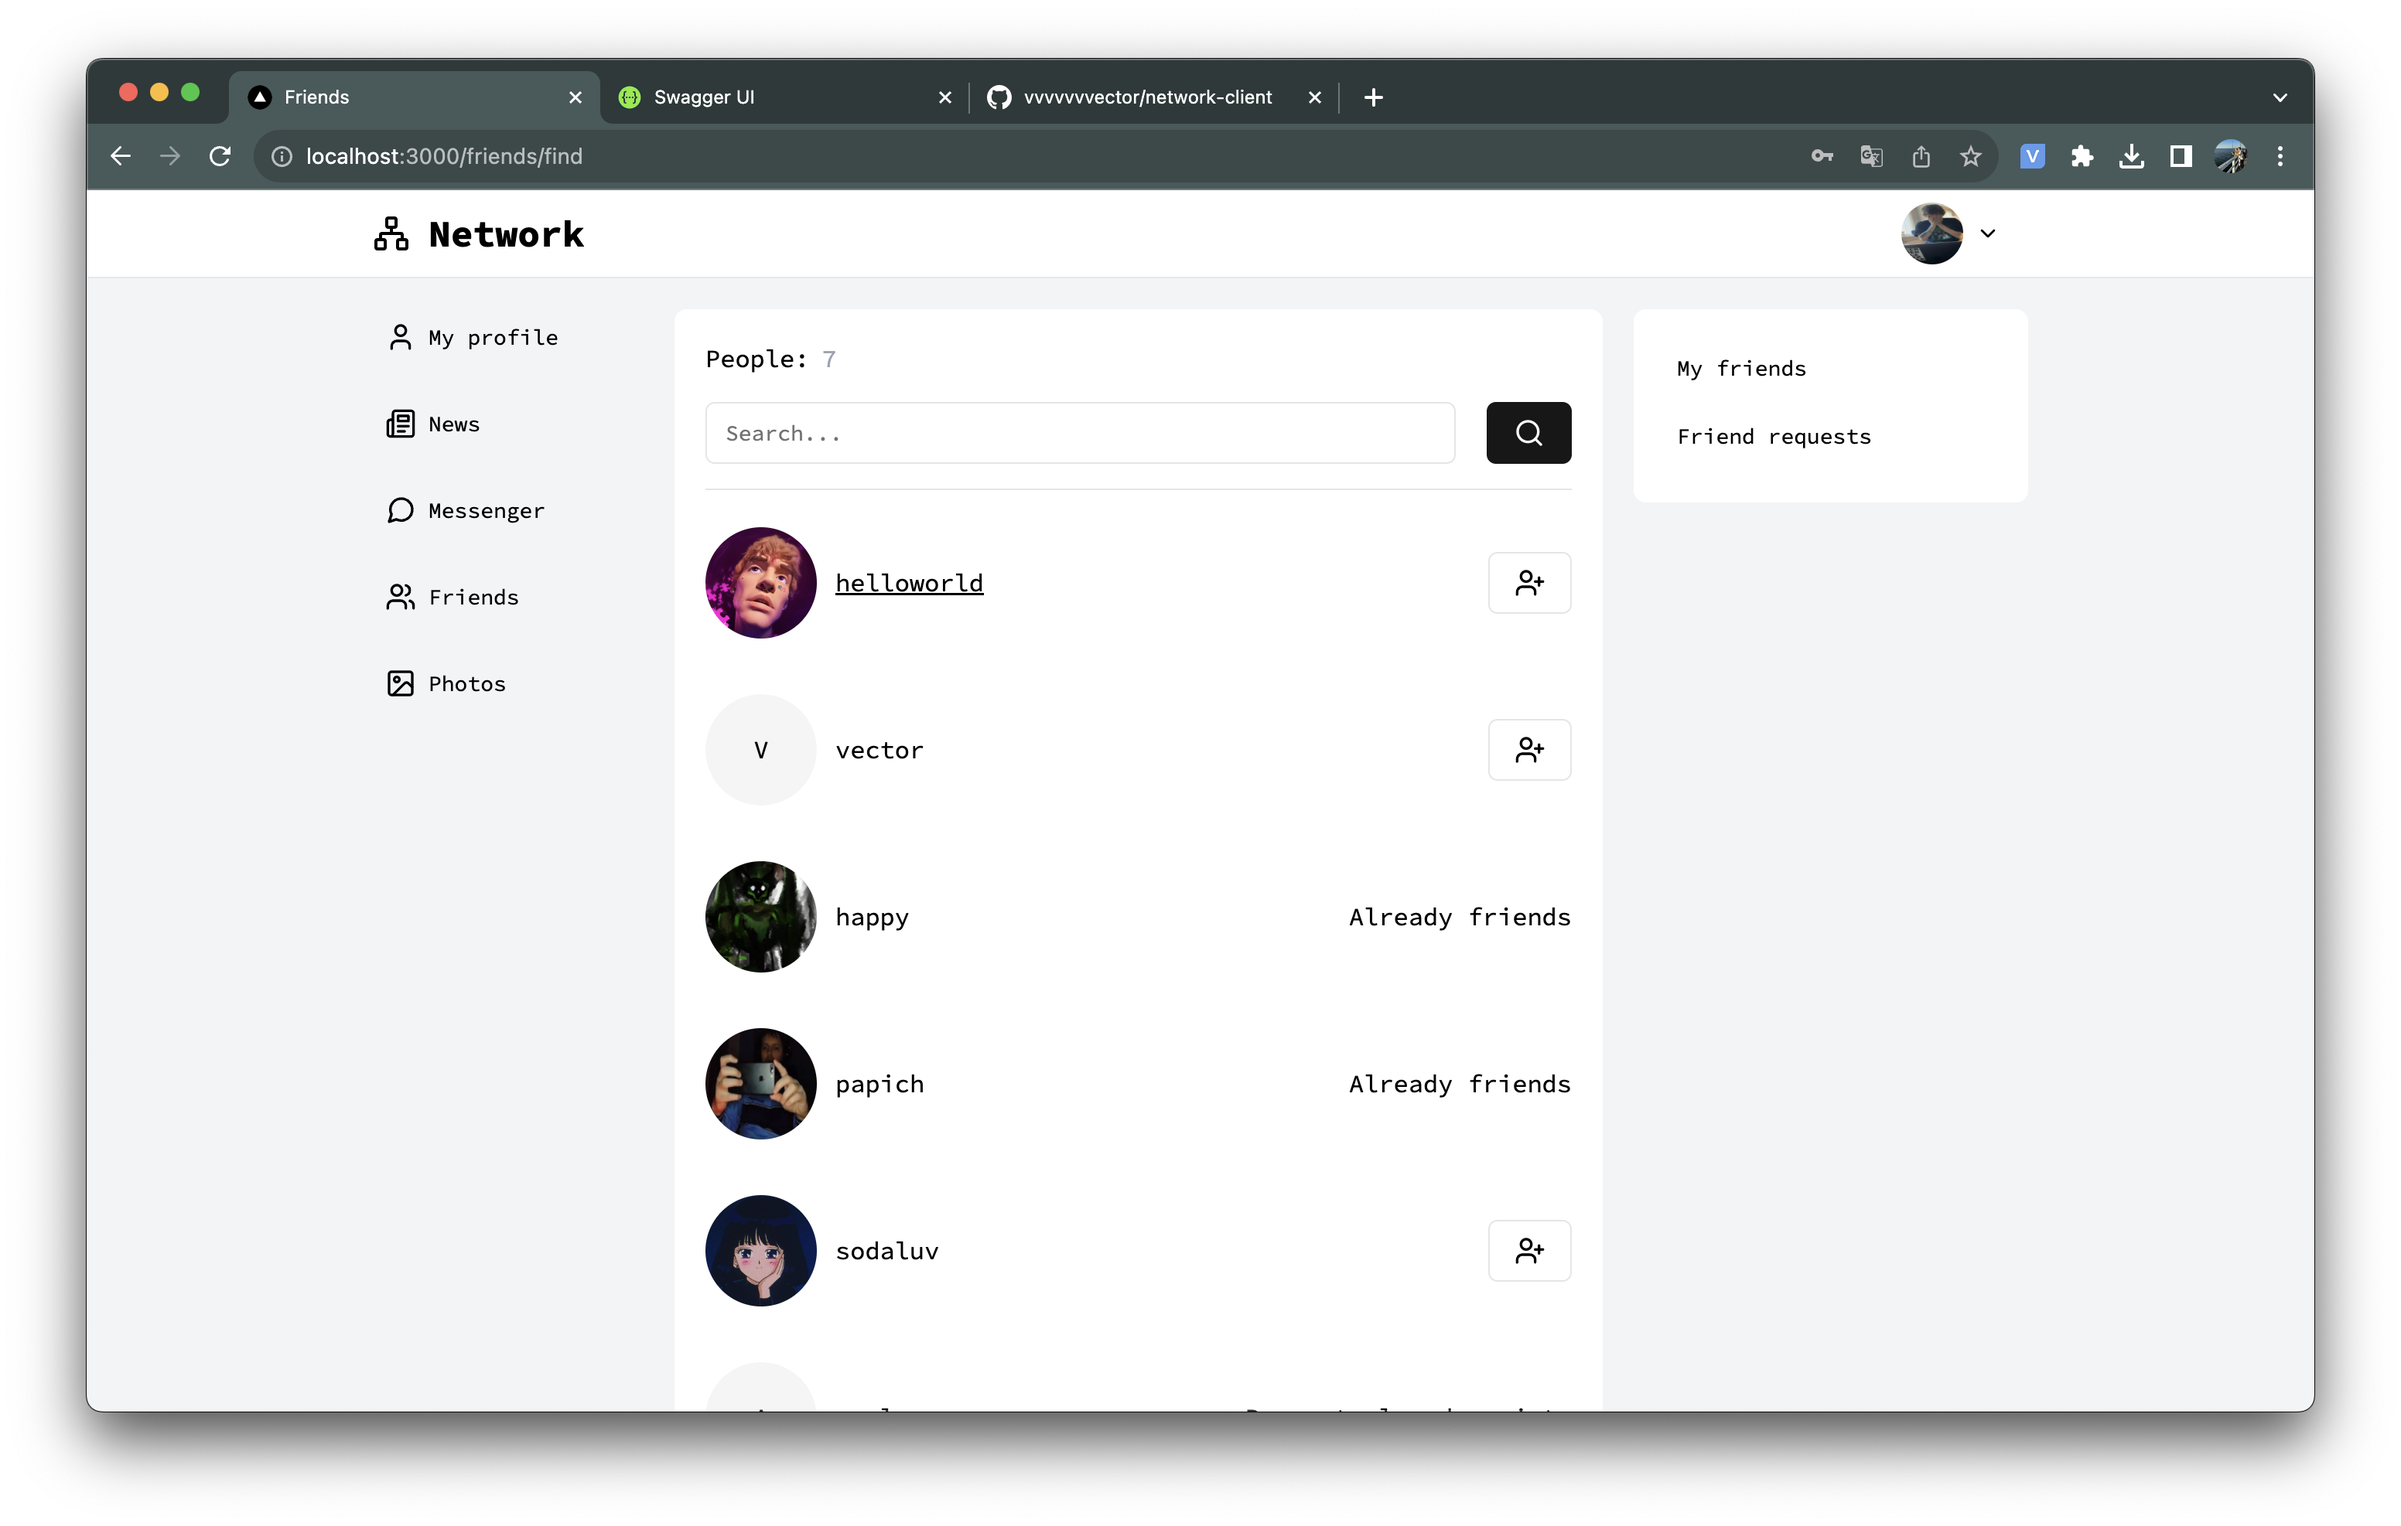
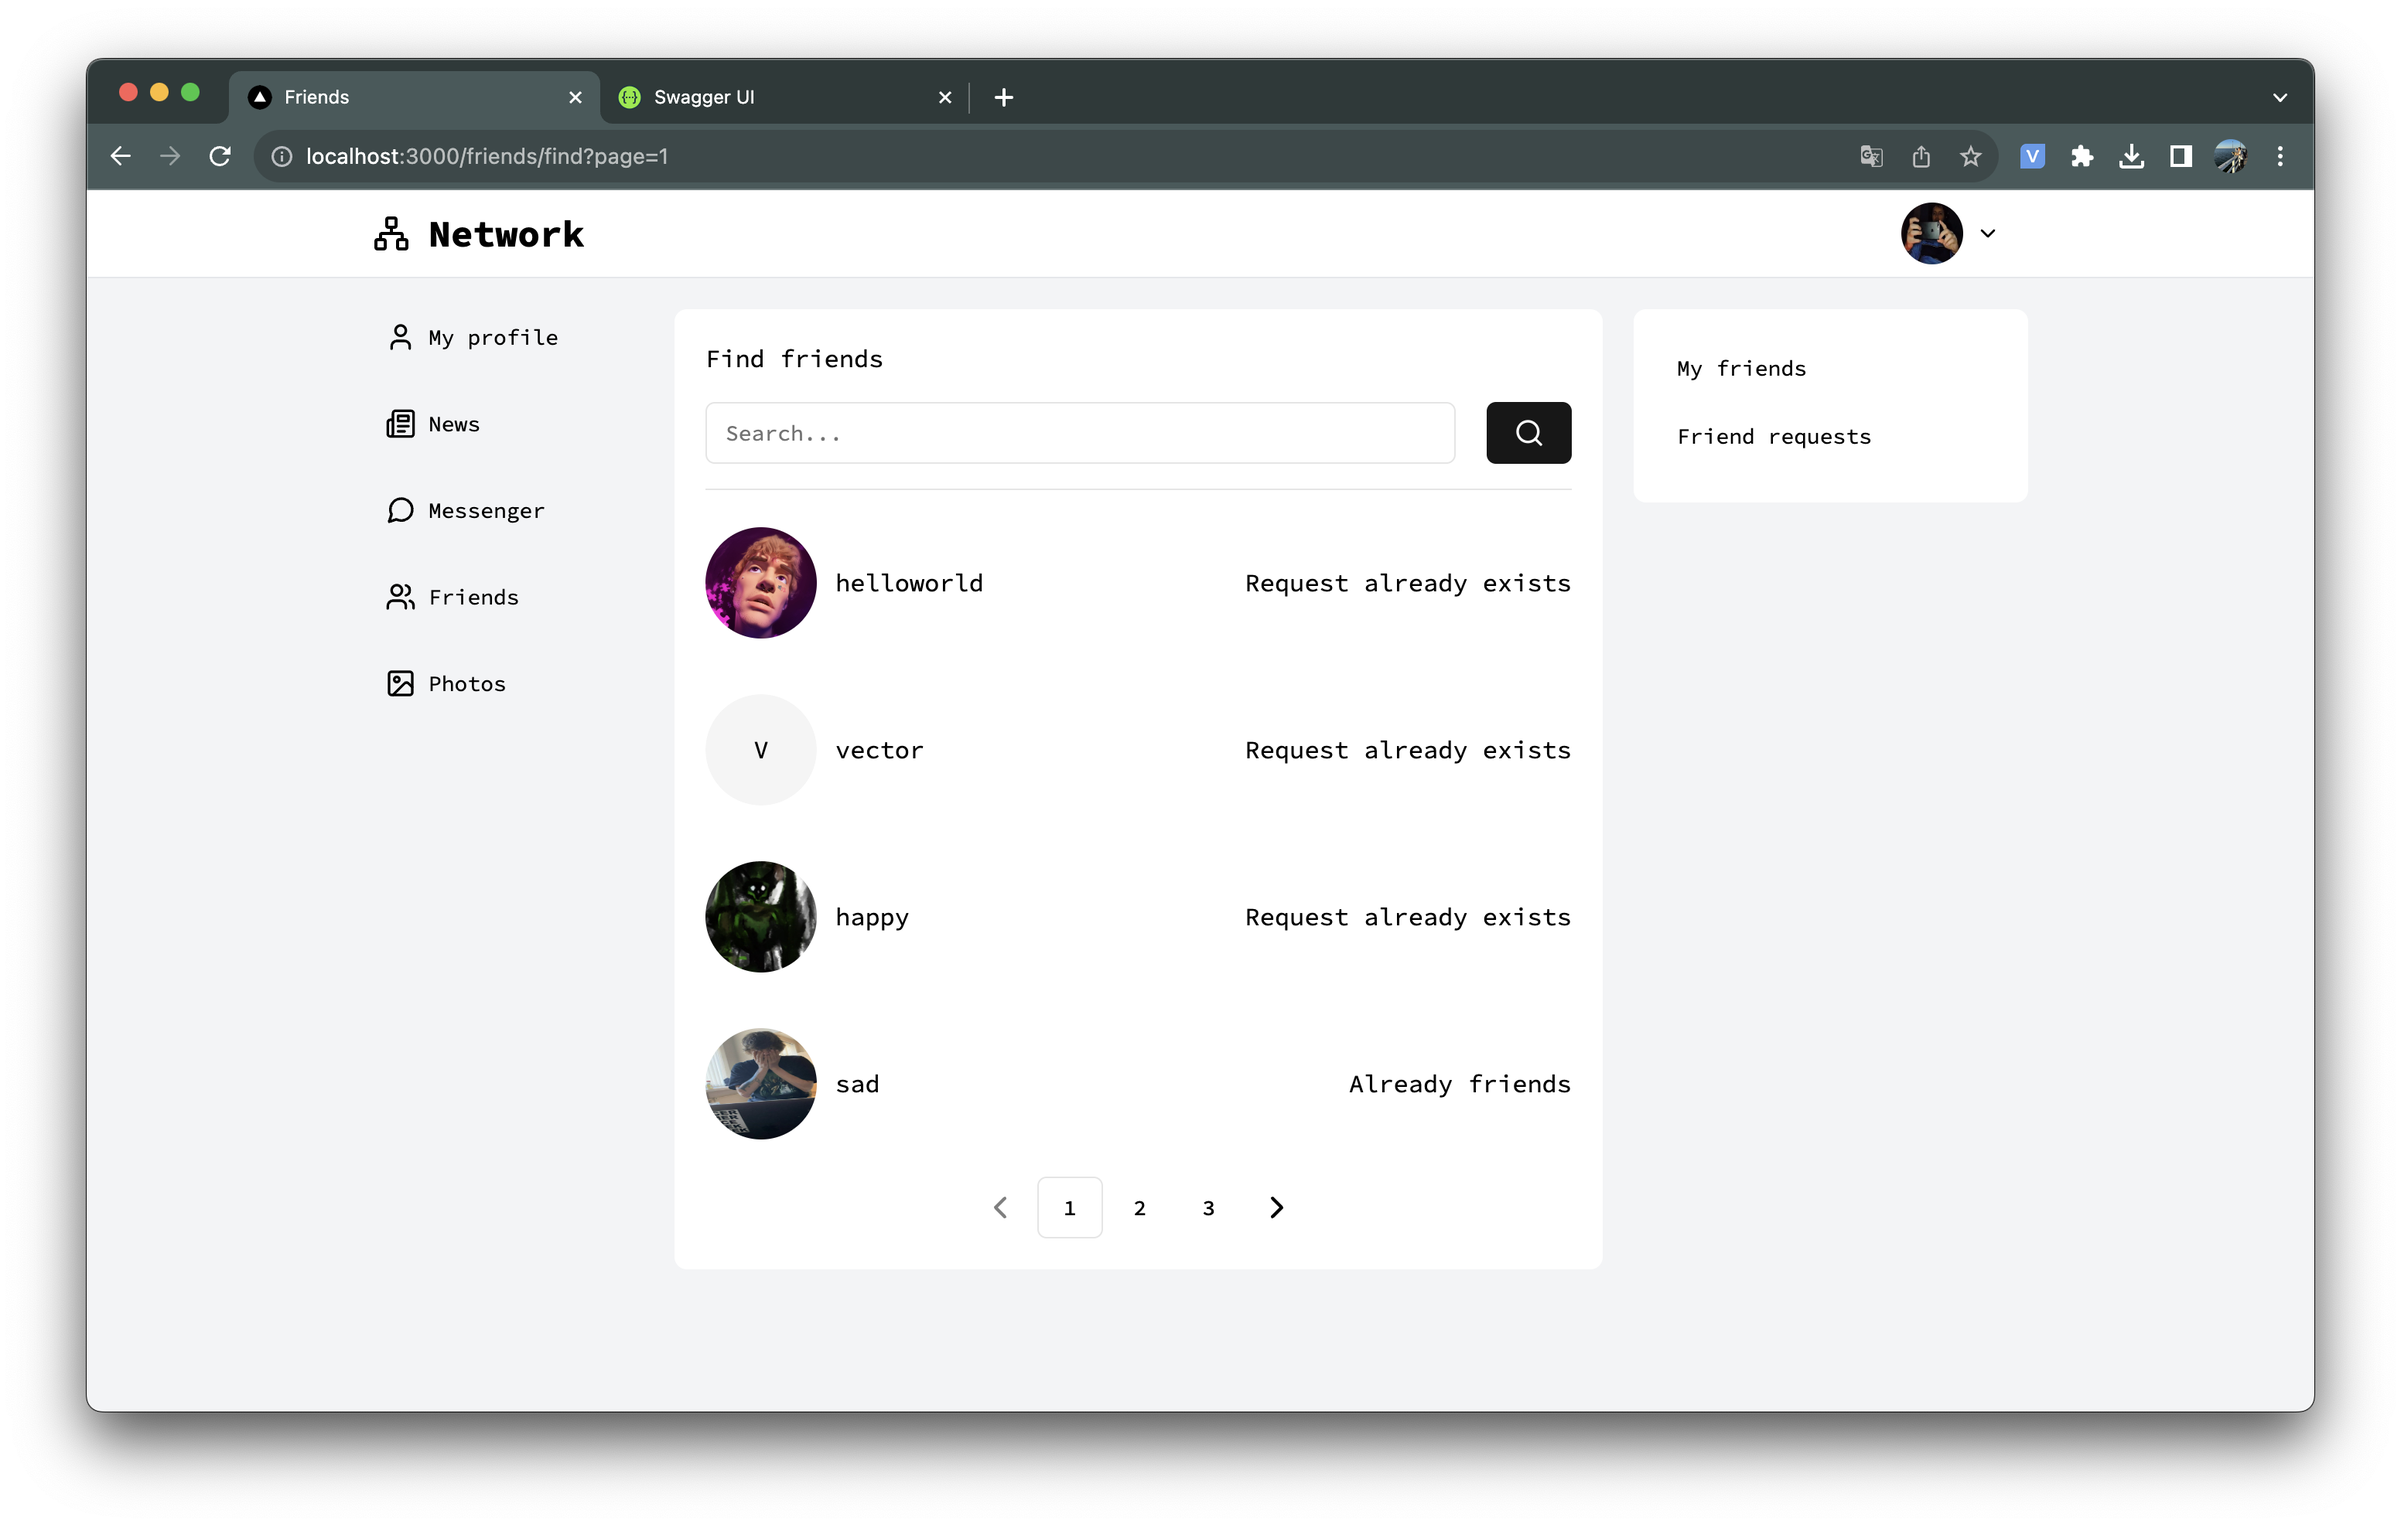
feat: friends/find pagination done

diff --git a/src/pages/friends/find.tsx b/src/pages/friends/find.tsx
@@ -1,4 +1,4 @@
-import { useState } from 'react';
+import { useEffect, useState } from 'react';
 import axios from 'axios';
 import { GetServerSideProps, GetServerSidePropsContext } from 'next';
 
@@ -19,7 +19,14 @@ import {
 } from '@/components/ui/tooltip';
 import { Avatar } from '@/components/Avatar';
 
-import { Search, UserPlus, SearchSlash, Table } from 'lucide-react';
+import {
+  Search,
+  UserPlus,
+  SearchSlash,
+  Table,
+  ChevronLeft,
+  ChevronRight,
+} from 'lucide-react';
 
 import { getNetworkUsersUsernames, sendFriendRequest } from '@/api/friends';
 
@@ -32,25 +39,40 @@ type RequestStatus = 'rejected' | 'accepted' | 'pending' | 'lack';
 
 interface Props {
   users: (User & ProfileWithAvatar & { requestStatus: RequestStatus })[];
+  totalPages: number;
 }
 
 const REQUEST_INFO: Record<
   Exclude<RequestStatus, 'lack'>,
   React.JSX.Element
 > = {
-  rejected: <>Request already exists</>,
-  accepted: <>Already friends</>,
-  pending: <>Request already exists</>,
+  rejected: <span>Request already exists</span>,
+  accepted: <span>Already friends</span>,
+  pending: <span>Request already exists</span>,
 };
 
-const Find: NextPageWithLayout<Props> = ({ users }) => {
-  const [searchValue, setSearchValue] = useState('');
-
+const Find: NextPageWithLayout<Props> = ({ users, totalPages }) => {
   const { router, toast } = useCombain();
 
-  const filteredUsers = users.filter((user) =>
-    user.username.toLowerCase().includes(searchValue.toLocaleLowerCase())
-  );
+  const [searchValue, setSearchValue] = useState('');
+
+  const [page, setPage] = useState(router.query.page ? +router.query.page : 1);
+
+  useEffect(() => {
+    router.push({
+      query: {
+        page,
+      },
+    });
+  }, [page]);
+
+  const onClickPrevPage = () => {
+    if (page > 1) setPage((prev) => prev - 1);
+  };
+
+  const onClickNextPage = () => {
+    if (totalPages > page) setPage((prev) => prev + 1);
+  };
 
   const onClickSendFriendRequest = (username: string) => {
     return async (e: React.MouseEvent<HTMLButtonElement, MouseEvent>) => {
@@ -78,8 +100,7 @@ const Find: NextPageWithLayout<Props> = ({ users }) => {
   return (
     <>
       <div className='flex gap-2 mb-4'>
-        <span>People:</span>
-        <span className='text-gray-400'>{`${filteredUsers.length}`}</span>
+        <span>Find friends</span>
       </div>
       <div className='text-sm flex gap-5 justify-between'>
         <Input
@@ -87,8 +108,24 @@ const Find: NextPageWithLayout<Props> = ({ users }) => {
           onChange={(e) => setSearchValue(e.target.value)}
           placeholder='Search...'
         />
-        {searchValue === '' ? (
-          <Button size='icon' className='w-16'>
+        {!router.query.username ? (
+          <Button
+            onClick={() => {
+              if (searchValue) {
+                setPage(1);
+
+                router.push({
+                  query: {
+                    page: 1,
+                    username: searchValue,
+                  },
+                });
+              }
+            }}
+            type='submit'
+            size='icon'
+            className='w-16'
+          >
             <Search className='h-5 w-5' />
           </Button>
         ) : (
@@ -96,7 +133,17 @@ const Find: NextPageWithLayout<Props> = ({ users }) => {
             <Tooltip>
               <TooltipTrigger asChild>
                 <Button
-                  onClick={() => setSearchValue('')}
+                  onClick={() => {
+                    setPage(1);
+
+                    setSearchValue('');
+
+                    router.push({
+                      query: {
+                        page: 1,
+                      },
+                    });
+                  }}
                   size='icon'
                   className='w-16'
                 >
@@ -111,9 +158,9 @@ const Find: NextPageWithLayout<Props> = ({ users }) => {
         )}
       </div>
       <Separator className='mt-4 mb-4' />
-      {filteredUsers.length > 0 ? (
+      {users.length > 0 ? (
         <ul className='flex flex-col gap-5'>
-          {filteredUsers.map((user) => (
+          {users.map((user) => (
             <li
               className='flex py-2 items-center justify-between'
               key={user.username}
@@ -156,6 +203,35 @@ const Find: NextPageWithLayout<Props> = ({ users }) => {
       ) : (
         <span className='text-center'>Your search returned no results.</span>
       )}
+      {users.length > 0 && (
+        <div className='flex justify-center gap-1 mt-4'>
+          <Button
+            variant='ghost'
+            size='icon'
+            disabled={page === 1}
+            onClick={onClickPrevPage}
+          >
+            <ChevronLeft />
+          </Button>
+          {[...Array(totalPages)].map((_, index) => (
+            <Button
+              key={index + 1}
+              onClick={() => setPage(index + 1)}
+              variant={index + 1 === page ? 'outline' : 'ghost'}
+            >
+              {index + 1}
+            </Button>
+          ))}
+          <Button
+            variant='ghost'
+            size='icon'
+            disabled={page === totalPages}
+            onClick={onClickNextPage}
+          >
+            <ChevronRight />
+          </Button>
+        </div>
+      )}
     </>
   );
 };
@@ -176,17 +252,22 @@ export const getServerSideProps: GetServerSideProps = async (
 
     if (res && 'redirect' in res) return res;
 
-    const users = await getNetworkUsersUsernames(+(ctx.query?.page as string));
+    const response = await getNetworkUsersUsernames(
+      ctx.query.page as string,
+      ctx.query.username as string
+    );
 
     return {
       props: {
-        users,
+        users: response.users,
+        totalPages: response.totalPages,
       },
     };
   } catch (error) {
     return {
       props: {
         users: [],
+        totalPages: 0,
       },
     };
   }

diff --git a/src/api/friends.ts b/src/api/friends.ts
@@ -48,9 +48,11 @@ const getRejectedFriendRequests = async () => {
   return data;
 };
 
-const getNetworkUsersUsernames = async (page: number) => {
+const getNetworkUsersUsernames = async (page: string, username: string) => {
   const { data } = await axiosApiInstance.get(
-    `/friend-requests/find?page=${page}`
+    `/friend-requests/find?page=${page}${
+      username ? `&username=${username}` : ''
+    }`
   );
 
   return data;

diff --git a/src/lib/types.ts b/src/lib/types.ts
@@ -34,6 +34,6 @@ type Contacts = {
 };
 
 type Email = {
-  contact?: string;
+  contact: string;
   isPublic: boolean;
 };
